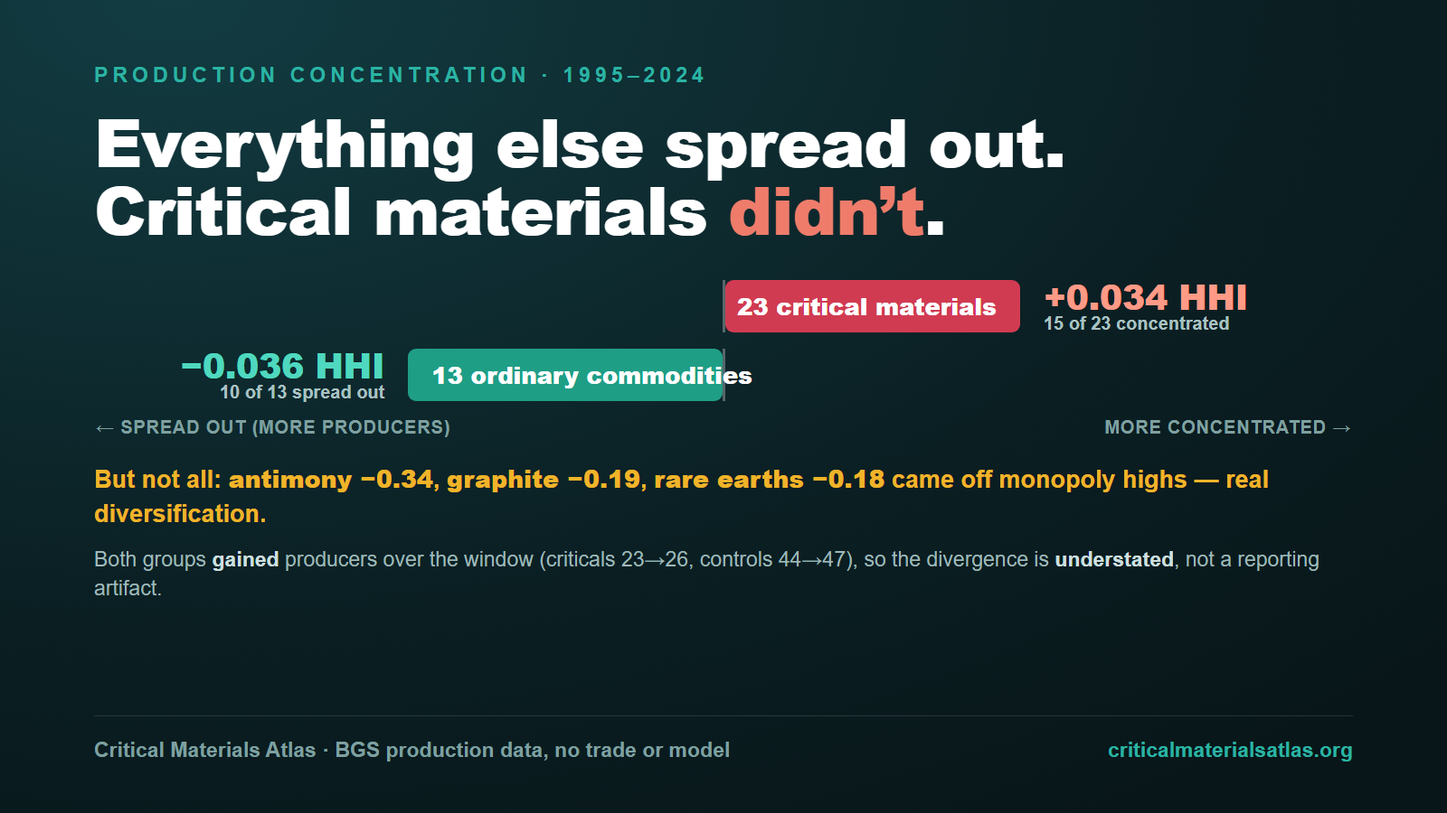
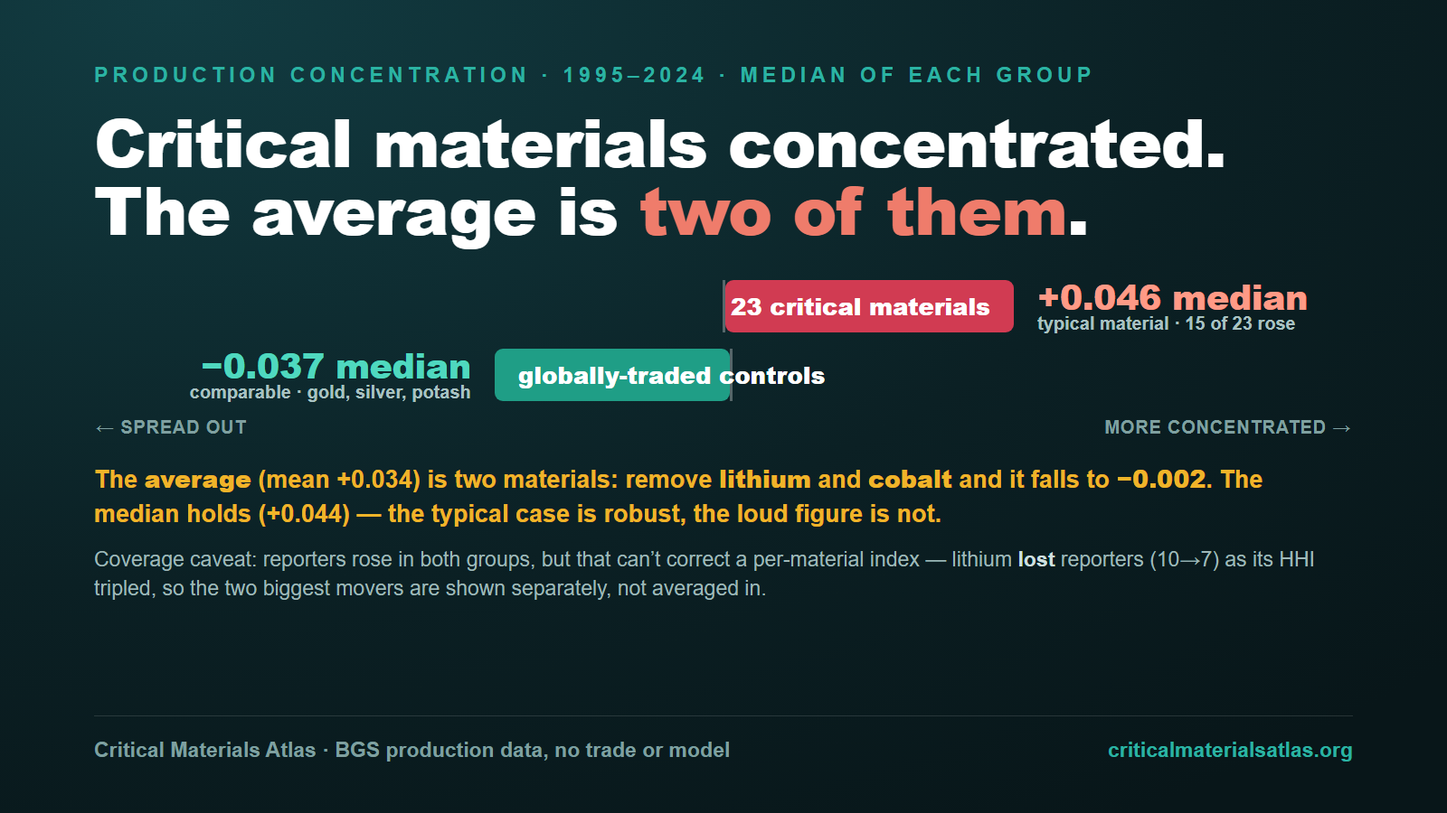
Concentration: reframe median-first, the average is two materials
Second X-manager review caught that the earlier framing made a class claim
the class does not support: drop lithium+cobalt and the critical MEAN goes
negative (-0.002). Rebuild on the honest, better finding.

- MEDIAN is the headline statistic: typical critical material +0.046,
  robust to leave-one-out (+0.044 without Li+Co, 13/21 still rose). The
  MEAN (+0.034) is carried entirely by two materials.
- Add the dot-strip plot (both reviewers asked): every material as one dot
  on the change axis, Li+Co visible as the outliers doing the work.
- Add leave-one-out table (mean collapses, median holds).
- Control comparability: most "ordinary minerals" are transport-sited and
  deconcentrate for logistics, not a counterfactual; the genuinely
  comparable, globally-traded controls are gold/silver/potash (median
  -0.037). Drop the bad exclusion rule (cement/iron+steel on model-internal
  convenience) from the reasoning.
- Selection caveat through the change: lists rewritten 2011-2023 in-window,
  lithium listed partly because it concentrated; median leave-one-out is
  the partial defence, full ex-ante freeze is the outstanding check.
- Coverage line corrected: group-mean coverage rising does NOT clear a
  nonlinear per-row index; lithium LOST reporters (10->7); two biggest
  movers shown separately, not averaged.
- Card rebuilt on medians + the two-material collapse + corrected coverage.
  Headline "Critical materials concentrated. The average is two of them."

diff --git a/concentration.html b/concentration.html
@@ -2,10 +2,10 @@
 <html lang="en"><head><meta charset="utf-8"><link rel="icon" href="/favicon.svg" type="image/svg+xml"><link rel="icon" type="image/png" sizes="192x192" href="/favicon-192.png"><link rel="icon" type="image/png" sizes="96x96" href="/favicon-96.png"><link rel="icon" type="image/png" sizes="48x48" href="/favicon-48.png"><link rel="icon" href="/favicon.ico" sizes="any"><link rel="apple-touch-icon" href="/apple-touch-icon.png">
 <meta name="viewport" content="width=device-width, initial-scale=1">
 <link rel="canonical" href="https://criticalmaterialsatlas.org/concentration">
-<title>Concentration divergence, 1995–2024 — Critical Materials Atlas</title>
-<meta name="description" content="Ordinary commodities spread out over 30 years; critical materials don't. Against a control group of 18 non-critical minerals — the test almost nobody runs — production concentration rose for 15 of 23 critical materials while it fell for 10 of 13 controls. Built from BGS production data alone: no trade, no consumption model.">
-<meta property="og:title" content="Ordinary commodities spread out. Critical materials don't.">
-<meta property="og:description" content="Against a control group of 13 ordinary minerals, production concentration rose for critical materials and fell for controls, 1995–2024. Production data only — the change, not the level, is the finding.">
+<title>The concentration average is two materials — Critical Materials Atlas</title>
+<meta name="description" content="The typical critical material grew modestly more concentrated over 1995–2024 while comparable ordinary commodities did not. But the large average usually cited is almost entirely lithium and cobalt — remove those two and it falls to zero. Built from BGS production data alone: no trade, no consumption model.">
+<meta property="og:title" content="Two materials carry the critical-minerals concentration story">
+<meta property="og:description" content="Median critical-material concentration rose +0.046 (robust); the mean +0.034 collapses to −0.002 without lithium and cobalt. The alarming average is two materials. Production data only.">
 <meta property="og:url" content="https://criticalmaterialsatlas.org/concentration">
 <meta property="og:image" content="https://criticalmaterialsatlas.org/share/card-concentration.png">
 <link rel="preconnect" href="https://fonts.googleapis.com"><link rel="preconnect" href="https://fonts.gstatic.com" crossorigin>
@@ -15,34 +15,38 @@
  article{max-width:1000px}
  .lead{font-size:1.05rem;line-height:1.6;color:var(--ink-soft);max-width:78ch;margin:.2rem 0 1.2rem}
  .lead b{color:var(--navy)}
- .panel{margin:1.4rem 0}
- .panel h3{display:flex;align-items:baseline;gap:.7rem;font-size:1.02rem;margin:.2rem 0 .1rem}
+ /* leave-one-out box */
+ .loo{border:1px solid var(--line);border-radius:10px;overflow:hidden;margin:1.2rem 0}
+ .loo table{margin:0;font-size:.95rem}
+ .loo caption{padding:.7rem 1rem .1rem;font-weight:700;color:var(--navy);font-size:.95rem;caption-side:top;text-align:left}
+ .loo th,.loo td{padding:.6rem 1rem}
+ .loo td.n{font-variant-numeric:tabular-nums;font-weight:800;text-align:right}
+ .loo .hi{color:#b3123a}.loo .ok{color:#0e7c5a}
+ .loo .rk{font-size:.8rem;color:var(--mut);font-weight:500}
+ /* dot strip */
+ .strip{margin:1rem 0 .3rem;overflow-x:auto}
+ .strip svg{display:block;min-width:720px;width:100%;height:auto}
+ .striplab{font-size:.82rem;color:var(--mut);max-width:82ch;margin:.2rem 0 0}
+ .leg{display:flex;gap:1.3rem;flex-wrap:wrap;font-size:.8rem;color:var(--ink-soft);margin:.5rem 0 0}
+ .leg span{display:inline-flex;align-items:center;gap:.4rem}
+ .leg i{width:12px;height:12px;border-radius:50%;display:inline-block}
+ /* per-material bars */
+ .panel{margin:1.2rem 0}
+ .panel h3{display:flex;align-items:baseline;gap:.7rem;font-size:1rem;margin:.2rem 0 .1rem}
  .panel h3 .tag{font-size:.72rem;font-weight:700;letter-spacing:.03em;color:var(--mut);text-transform:none}
- .chart{margin:.5rem 0 .3rem}
- .row{display:grid;grid-template-columns:11rem 1fr 3.4rem;align-items:center;gap:.6rem;padding:.09rem 0;font-size:.85rem}
+ .row{display:grid;grid-template-columns:11rem 1fr 3.4rem;align-items:center;gap:.6rem;padding:.08rem 0;font-size:.84rem}
  .row .nm{white-space:nowrap;overflow:hidden;text-overflow:ellipsis;color:var(--ink-soft);text-align:right}
- .row .nm a{color:var(--ink-soft);text-decoration:none}
- .row .nm a:hover{color:var(--navy);text-decoration:underline}
+ .row .nm a{color:var(--ink-soft);text-decoration:none}.row .nm a:hover{color:var(--navy);text-decoration:underline}
  .row .nm .dg{color:var(--faint);font-weight:700}
- .track{position:relative;height:17px;background:var(--bg-soft);border-radius:4px}
+ .track{position:relative;height:16px;background:var(--bg-soft);border-radius:4px}
  .zero{position:absolute;top:-2px;bottom:-2px;left:50%;width:1px;background:var(--line-strong)}
- .bar{position:absolute;top:2px;height:13px;border-radius:3px}
+ .bar{position:absolute;top:2px;height:12px;border-radius:3px}
  .bar.up{background:#b3123a}.bar.dn{background:#0e7c5a}
- .row .vv{text-align:right;font-variant-numeric:tabular-nums;font-weight:700;font-size:.8rem}
+ .row .vv{text-align:right;font-variant-numeric:tabular-nums;font-weight:700;font-size:.79rem}
  .vv.up{color:#b3123a}.vv.dn{color:#0e7c5a}
  .axl{display:grid;grid-template-columns:11rem 1fr 3.4rem;gap:.6rem;font-size:.68rem;color:var(--mut);margin-top:.2rem}
  .axl .mid{display:flex;justify-content:space-between}
- .leg{display:flex;gap:1.3rem;flex-wrap:wrap;font-size:.8rem;color:var(--ink-soft);margin:.4rem 0 0}
- .leg span{display:inline-flex;align-items:center;gap:.4rem}
- .leg i{width:12px;height:12px;border-radius:3px;display:inline-block}
- .divbox{display:grid;grid-template-columns:1fr 1fr;gap:0;border:1px solid var(--line);border-radius:10px;overflow:hidden;margin:1.1rem 0}
- .divbox>div{padding:1.05rem 1.2rem}
- .divbox>div:first-child{border-right:1px solid var(--line)}
- .divbox .big{font-size:1.5rem;font-weight:800;letter-spacing:-.02em;line-height:1.05}
- .divbox .big.up{color:#b3123a}.divbox .big.dn{color:#0e7c5a}
- .divbox .cap{font-size:.82rem;color:var(--mut);margin-top:.35rem;line-height:1.4}
- .divbox .cap b{color:var(--ink)}
- @media(max-width:640px){.row,.axl{grid-template-columns:7.5rem 1fr 3rem}.divbox{grid-template-columns:1fr}.divbox>div:first-child{border-right:none;border-bottom:1px solid var(--line)}}
+ @media(max-width:640px){.row,.axl{grid-template-columns:7.5rem 1fr 3rem}}
 </style>
 </head><body>
 <a class="skip" href="#main">Skip to content</a>
@@ -54,65 +58,70 @@
 
 <section class="hero"><div class="wrap">
   <div class="eyebrow">Supply structure · concentration over time</div>
-  <h1>Ordinary commodities spread out. Critical materials don&rsquo;t.</h1>
-  <p class="deck">Over three decades, production of ordinary minerals became <i>less</i> concentrated as more countries dug in &mdash; the normal pattern. Critical materials broke it: most grew <i>more</i> concentrated. The test that makes this a finding rather than a slogan is the <b>control group</b> &mdash; 13 non-critical minerals, run the same way. Almost nobody publishing on critical minerals runs one. This is built from production data alone: no trade, no consumption model, no forecast.</p>
+  <h1>Two materials carry the critical-minerals concentration story</h1>
+  <p class="deck">Most critical materials did grow more concentrated between 1995&ndash;2004 and 2015&ndash;2024 &mdash; the <i>typical</i> one modestly, and by more than comparable ordinary commodities. But the large <b>average</b> that usually gets cited is almost entirely <b>lithium and cobalt</b>: drop those two and it falls from +0.034 to essentially zero. So the alarming version of the story, in production terms, is mostly a story about two materials. Built from production data alone &mdash; no trade, no consumption model.</p>
 </div></section>
 
 <section class="stats"><div class="wrap">
-  <div class="stat"><div class="n">15 / 23</div><div class="l">critical materials grew <b>more</b> concentrated, 1995&ndash;2004 &rarr; 2015&ndash;2024</div></div>
-  <div class="stat"><div class="n">10 / 13</div><div class="l">control (ordinary) minerals grew <b>less</b> concentrated over the same window</div></div>
-  <div class="stat"><div class="n">+0.034</div><div class="l">mean HHI change, criticals (rising) vs <b>&minus;0.036</b> for controls (falling)</div></div>
+  <div class="stat"><div class="n">+0.046</div><div class="l"><b>median</b> HHI change of a critical material &mdash; the <i>typical</i> case (robust: +0.044 without Li&nbsp;&amp;&nbsp;Co)</div></div>
+  <div class="stat"><div class="n">&minus;0.037</div><div class="l">median for the <b>comparable</b> controls (gold, silver, potash) &mdash; the typical ordinary commodity did not</div></div>
+  <div class="stat"><div class="n">&rarr; &minus;0.002</div><div class="l">the critical <b>mean</b> (+0.034) once lithium &amp; cobalt are removed &mdash; the average is two materials</div></div>
   <div class="stat"><div class="n">1995&ndash;2004</div><div class="l">baseline decade &mdash; predates the EU&rsquo;s first critical-raw-materials list (2011)</div></div>
 </div></section>
 
 <article>
-  <p class="lead">The eye-catching number is the <i>level</i>: critical materials are more concentrated than ordinary ones (mean HHI 0.29 vs 0.19). <b>Ignore it.</b> That gap is partly circular &mdash; supply concentration is an explicit criterion for <i>calling</i> a material critical, so &ldquo;criticals are concentrated&rdquo; is close to definitional. The finding is the <b>change</b>. Nothing in any criticality definition says a material must become <i>more</i> concentrated over time. If criticality just meant &ldquo;naturally rare and concentrated,&rdquo; these materials would be flat and high &mdash; not rising. They rose while ordinary commodities fell, and the baseline decade (1995&ndash;2004) predates the EU critical-raw-materials list (2011) and most national lists entirely.</p>
+  <p class="lead">The number to quote is the <b>median</b>, not the mean. The typical critical material became modestly more concentrated (median <b>+0.046</b>), and it did so while the typical <i>comparable</i> ordinary commodity did not. That result is robust: strip out the two biggest movers and the median barely moves. The <i>mean</i> tells a louder story &mdash; but a false one. It is +0.034 only because two materials sit at the far edge of the distribution; remove them and it collapses. Anyone citing &ldquo;critical minerals are concentrating&rdquo; from an average is, on these numbers, mostly citing lithium and cobalt.</p>
 
-  <div class="divbox">
-    <div><div class="big up">+0.034 &nbsp;<span style="font-size:.9rem;font-weight:700">(&plus;12%)</span></div>
-      <div class="cap"><b>23 critical materials.</b> Mean production HHI rose from 0.29 to 0.32. <b>15 concentrated, 7 spread out, 1 flat.</b> Concentration is broad &mdash; not one or two headline metals.</div></div>
-    <div><div class="big dn">&minus;0.036 &nbsp;<span style="font-size:.9rem;font-weight:700">(&minus;19%)</span></div>
-      <div class="cap"><b>13 ordinary minerals.</b> Mean HHI fell from 0.19 to 0.15. <b>10 spread out, 3 concentrated.</b> The normal pattern: as demand grows, more countries produce.</div></div>
-  </div>
+  <div class="loo"><table><caption>Remove the two biggest movers &mdash; lithium (+0.50) and cobalt (+0.31):</caption>
+    <thead><tr><th>Critical materials</th><th class="n">Mean change</th><th class="n">Median change</th><th class="n">Share that rose</th></tr></thead>
+    <tbody>
+      <tr><td>All 23</td><td class="n">+0.034</td><td class="n">+0.046</td><td class="n">15 / 23</td></tr>
+      <tr><td>The other 21 <span class="rk">(without Li&nbsp;&amp;&nbsp;Co)</span></td><td class="n hi">&minus;0.002</td><td class="n ok">+0.044</td><td class="n">13 / 21</td></tr>
+    </tbody></table></div>
+  <p class="note" style="margin:-.4rem 0 0;max-width:82ch">The <b class="loo" style="color:#b3123a">mean</b> is entirely those two materials. The <b class="loo" style="color:#0e7c5a">median</b> &mdash; the typical material &mdash; is not: it holds, and 13 of the remaining 21 still rose. Both facts are the finding.</p>
 
-  <h2>The change in each material, 1995&ndash;2004 &rarr; 2015&ndash;2024</h2>
-  <p class="note" style="margin:.2rem 0 .6rem;max-width:80ch">Change in the Herfindahl&ndash;Hirschman index of production shares (0 = many equal producers, 1 = a single monopoly). Bars right &amp; red = <b>concentrated</b>; left &amp; green = <b>spread out</b>. In each panel the <i>minority</i> colour is the exception &mdash; a critical that diversified, or an ordinary mineral that concentrated &mdash; shown, not hidden. <span class="dg" style="color:var(--faint);font-weight:700">&dagger;</span> marks thin coverage (fewer than 8 reporting producers), where the index is fragile.</p>
+  <h2>The whole distribution, one dot per material</h2>
+  <p class="striplab">Every material&rsquo;s change in production HHI, 1995&ndash;2004 &rarr; 2015&ndash;2024, plotted on one axis. This is the most honest object on the page: it shows the two outliers doing the work rather than hiding them in an average. The vertical tick is each group&rsquo;s <b>median</b>.</p>
+  <div class="strip"><svg id="strip" viewBox="0 0 920 240" role="img" aria-label="Dot strip of HHI change by material"></svg></div>
+  <div class="leg"><span><i style="background:#b3123a"></i> critical material</span><span><i style="background:#0e7c5a"></i> comparable control (Au/Ag/potash)</span><span><i style="background:#9aa6ad"></i> other ordinary mineral (transport-sited)</span><span style="color:var(--mut)">▏ = group median</span></div>
+
+  <h2>Is it a class, or is it two materials?</h2>
+  <p style="max-width:80ch">The honest answer is <b>both, at different volumes</b>. As a <i>class</i>, critical materials lean toward concentration: 15 of 23 rose, and the typical one by a modest +0.046. But the dramatic, headline-grade concentration is two materials &mdash; the battery-cathode pair. Lithium&rsquo;s HHI more than tripled (0.21&nbsp;&rarr;&nbsp;0.71) and cobalt&rsquo;s tripled too (0.14&nbsp;&rarr;&nbsp;0.45). And it is <b>not</b> a clean &ldquo;energy transition&rdquo; story: two of the most-discussed transition metals moved the other way &mdash; graphite (&minus;0.19) and rare earths (&minus;0.18) came off near-monopoly highs as new suppliers entered. So &ldquo;critical minerals are concentrating&rdquo; is true of the typical material only mildly, and true dramatically of two.</p>
 
   <div class="panel">
-    <h3>Critical materials <span class="tag">production HHI change &mdash; sorted</span></h3>
+    <h3>Every critical material, ranked <span class="tag">production HHI change</span></h3>
     <div class="chart" id="chart-crit"></div>
   </div>
-
   <div class="panel">
-    <h3>Control group &mdash; ordinary minerals <span class="tag">same method, same window</span></h3>
+    <h3>Ordinary minerals, same method <span class="tag">comparable controls in green; transport-sited in grey</span></h3>
     <div class="chart" id="chart-ctrl"></div>
     <div class="axl"><span></span><span class="mid"><span>&larr; spread out</span><span>0</span><span>concentrated &rarr;</span></span><span></span></div>
   </div>
+  <div class="leg"><span><i style="background:#b3123a;border-radius:3px"></i> grew more concentrated</span><span><i style="background:#0e7c5a;border-radius:3px"></i> spread out</span><span style="color:var(--mut)"><span class="dg" style="color:var(--faint)">&dagger;</span> thin coverage (&lt;8 producers)</span></div>
 
-  <div class="leg"><span><i style="background:#b3123a"></i> grew more concentrated</span><span><i style="background:#0e7c5a"></i> spread out (more producers)</span><span style="color:var(--mut)"><span class="dg" style="color:var(--faint)">&dagger;</span> thin coverage (&lt;8 producers)</span></div>
+  <h2>What counts as a control &mdash; and why most don&rsquo;t</h2>
+  <p style="max-width:80ch">A control only works if it is <i>comparable</i>. Many ordinary minerals &mdash; gypsum, salt, aggregates, talc, perlite &mdash; deconcentrate for a reason that has nothing to do with supply risk: they are bulky and low-value, so they are produced next to where they are used. That is transport economics, not a counterfactual, and it would flatter the result. The genuinely comparable controls are the ones that share critical materials&rsquo; production logic &mdash; globally traded, mined where the geology is: <b>gold, silver and potash</b>. Their typical change was &minus;0.037: no concentration. It is a small basket (three), and that smallness is itself telling &mdash; there are few important, globally-traded, non-critical commodities, because being scarce and concentrated is much of what gets a material <i>called</i> critical in the first place.</p>
 
-  <div class="callout" style="margin-top:1.3rem"><b>The confound an analyst checks first &mdash; and it runs the wrong way for us.</b> HHI rises automatically when fewer countries report. But over this window <i>both</i> groups <i>gained</i> reporters &mdash; the critical group 23 &rarr; 26 producing countries per year on average, the control group 44 &rarr; 47. More countries were producing in each, yet criticals concentrated while controls spread out. So the criticals&rsquo; rise is <b>despite</b> more producers, not a reporting artifact. That is the single strongest line here, so it sits in the open, not a footnote.</div>
+  <h2>Two honesties this rests on</h2>
+  <p style="max-width:80ch"><b>The level is partly circular; the change is the finding.</b> Critical materials are more concentrated than ordinary ones in level (mean HHI 0.29 vs 0.19), but supply concentration is an explicit criterion for <i>calling</i> a material critical, so that gap is close to definitional. Nothing in any definition says a material must become <i>more</i> concentrated over time &mdash; that is what the change measures, and the baseline decade (1995&ndash;2004) predates the EU critical-raw-materials list (2011).</p>
+  <p style="max-width:80ch"><b>Selection bites through the change too, and lithium is the case.</b> The critical lists were rewritten repeatedly between 2011 and 2023 &mdash; inside the window &mdash; and lithium was added partly <i>because</i> it concentrated. A full defence would freeze the classification to before the baseline; that is the outstanding robustness check. The partial defence is already visible above: the median survives removing lithium and cobalt, so the typical-material result does not depend on the recently-salient cases.</p>
 
-  <h2>Is it the energy transition? No &mdash; and that&rsquo;s the interesting part</h2>
-  <p style="max-width:80ch">The obvious story would be that the materials the energy transition needs concentrated while the rest spread out. It doesn&rsquo;t hold &mdash; and the test saying no is the test working. The transition group has the bigger <i>average</i> move but only <b>5 of 9 rose</b>, a coin flip carried by two extremes; the old-industrial criticals are the consistent ones (<b>10 of 14</b>). Two of the most-talked-about transition metals went the <i>other</i> way entirely: graphite (&minus;0.19) and rare earths (&minus;0.18) came off near-monopoly highs as new suppliers entered. The cleanest single concentrator is <b>cobalt</b> &mdash; its HHI tripled (0.14 &rarr; 0.45) while its reporting producers <i>rose</i> from 14 to 20. <b>Lithium</b> moved further still (0.21 &rarr; 0.71) but its reporter count <i>fell</i> (10 &rarr; 7), so part of that is thinner reporting rather than deeper concentration &mdash; the one row where the coverage caveat cuts the other way. So this isn&rsquo;t a batteries-and-magnets story; it&rsquo;s broad across critical materials, with a couple of battery metals as the extreme edge, not the cause.</p>
+  <div class="callout"><b>The coverage question, stated correctly.</b> Concentration indices can rise simply because fewer countries report. Reporter counts actually <i>rose</i> in both groups on average &mdash; but that average does not clear a nonlinear, per-material index, and the single biggest mover cuts the other way: <b>lithium&rsquo;s reporting producers fell from 10 to 7</b> as its HHI tripled, so part of that one rise is thinner reporting, not deeper concentration. That is exactly why lithium and cobalt are shown as individual dots, not folded into a group average. Cobalt is the clean case &mdash; its producer count <i>rose</i> (14&nbsp;&rarr;&nbsp;20) while its HHI tripled.</div>
 
-  <h2>The exceptions, named</h2>
-  <p style="max-width:80ch">A finding you can only believe if the counter-cases are on the table. Seven criticals <i>diversified</i>: <b>antimony</b> (&minus;0.34), <b>graphite</b> (&minus;0.19), <b>rare earths</b> (&minus;0.18), <b>platinum-group metals</b> (&minus;0.10), barytes, tin and copper. The three biggest were all near-monopolies in the 1990s that have genuinely broadened since &mdash; real, and real evidence that concentration is not destiny. On the other side, only three ordinary minerals <i>concentrated</i>, and all barely &mdash; perlite (&plus;0.04), silver (&plus;0.02) and salt (&plus;0.02), none on a shrinking producer set. Two commodities that <i>would</i> have concentrated were deliberately left out of the control group, not to flatter the result: diamond (a cartel-shaped market that behaves like a critical) and asbestos (whose producers vanished for regulatory reasons, a policy shock rather than market structure). Neither exclusion is needed for the divergence &mdash; 15 vs 10 pointing opposite ways &mdash; but naming them is.</p>
-
-  <div class="callout"><b>What this rests on, and what it doesn&rsquo;t.</b> Concentration is measured on <b>mine/primary production tonnages</b> from the <a href="https://www2.bgs.ac.uk/mineralsuk/statistics/wms.cfc?method=searchWMS">BGS World Mineral Statistics</a> panel &mdash; a single, consistent source across all 36 materials and 30 years. HHI is the sum of squared national production shares, computed only for years with at least five reporting producers. This uses <b>no trade data, no apparent-consumption estimate, and no model</b> &mdash; which is why it is independent of everything still open in the atlas&rsquo;s consumption layer. It measures where material is <i>produced</i>, not where it is refined or consumed; a material can have diversified mines and still a concentrated midstream (that is the <a href="chokepoint-map">chokepoint</a> question, and a different measurement).</p>
-  </div>
+  <div class="callout"><b>What this rests on, and what it doesn&rsquo;t.</b> Concentration is measured on <b>mine/primary production tonnages</b> from the <a href="https://www2.bgs.ac.uk/mineralsuk/statistics/wms.cfc?method=searchWMS">BGS World Mineral Statistics</a> panel &mdash; one consistent source across every material, computed only for years with at least five reporting producers. It uses <b>no trade data, no apparent-consumption estimate, and no model</b>, so it is independent of everything still open in the atlas&rsquo;s consumption layer. It measures where material is <i>produced</i>, not refined or consumed &mdash; a material can have diversified mines and a concentrated midstream (that is the <a href="chokepoint-map">chokepoint</a> question, and a different measurement).</div>
 
   <div class="ftr"><a href="chokepoint-map">Where the real chokepoints sit</a> · <a href="n1">Can the rest cope without the leader?</a> · <a href="analysis">All analysis</a></div>
 </article>
 
 </main>
-<footer class="siteftr"><div class="wrap"><div><h4>Critical Materials Atlas</h4>Public-data value-chain research.</div><div><h4>Related</h4><a href="chokepoint-map">Chokepoint map</a><br><a href="analysis">Analysis</a></div><div class="fineprint">Concentration from BGS World Mineral Statistics production tonnages; HHI of national production shares, years with &ge;5 reporters. Production only.</div></div></footer>
+<footer class="siteftr"><div class="wrap"><div><h4>Critical Materials Atlas</h4>Public-data value-chain research.</div><div><h4>Related</h4><a href="chokepoint-map">Chokepoint map</a><br><a href="analysis">Analysis</a></div><div class="fineprint">Concentration from BGS World Mineral Statistics production tonnages; HHI of national production shares, years with &ge;5 reporters. Production only. Median is the headline statistic.</div></div></footer>
 
 <script>
-// BGS World Mineral Statistics — production HHI, mean of 1995-2004 vs mean of 2015-2024.
-// change = late - early. thin = min reporters/yr < 8. Built by build_bgs_concentration.py.
+// BGS World Mineral Statistics — production HHI, mean of 1995-2004 vs 2015-2024. change = late - early.
+// thin = min reporters/yr < 8. cmp = comparable control (globally-traded, geology-sited). Built by
+// build_bgs_concentration.py. Medians: critical +0.046, comparable control -0.037, all controls -0.026.
 var CRIT=[
- {n:"Lithium",c:.504,thin:1,h:"lithium-chain/lithium-chain.html"},{n:"Cobalt",c:.310,h:"cobalt-chain/cobalt-chain.html"},
+ {n:"Lithium",c:.504,thin:1,big:1,h:"lithium-chain/lithium-chain.html"},{n:"Cobalt",c:.310,big:1,h:"cobalt-chain/cobalt-chain.html"},
  {n:"Fluorspar",c:.158},{n:"Lead",c:.130},{n:"Vanadium",c:.100,thin:1},{n:"Phosphate rock",c:.089},
  {n:"Nickel",c:.076,h:"nickel-chain/nickel-chain.html"},{n:"Magnesite",c:.076},{n:"Bismuth",c:.074},{n:"Feldspar",c:.060},
  {n:"Tungsten",c:.046},{n:"Chromium",c:.046},{n:"Zinc",c:.044},{n:"Manganese",c:.024},{n:"Molybdenum",c:.010},
@@ -120,21 +129,58 @@ var CRIT=[
  {n:"Platinum-group metals",c:-.095,thin:1},{n:"Rare earths",c:-.182,thin:1,h:"rare-earths-chain/rare-earths-chain.html"},
  {n:"Graphite",c:-.190,h:"graphite-chain/graphite-chain.html"},{n:"Antimony",c:-.344}];
 var CTRL=[
- {n:"Perlite",c:.040},{n:"Silver",c:.024},{n:"Salt",c:.015},{n:"Mica",c:-.017},{n:"Bentonite",c:-.018},
- {n:"Aggregates",c:-.022},{n:"Gypsum",c:-.026},{n:"Diatomite",c:-.026},{n:"Gold",c:-.037},{n:"Talc",c:-.043},
- {n:"Vermiculite",c:-.104},{n:"Kaolin",c:-.109},{n:"Potash",c:-.151,thin:1}];
-var MAX=0.52; // symmetric scale, half-width each side
-function render(id,rows){
- var html=rows.map(function(r){
+ {n:"Perlite",c:.040},{n:"Silver",c:.024,cmp:1},{n:"Salt",c:.015},{n:"Mica",c:-.017},{n:"Bentonite",c:-.018},
+ {n:"Aggregates",c:-.022},{n:"Gypsum",c:-.026},{n:"Diatomite",c:-.026},{n:"Gold",c:-.037,cmp:1},{n:"Talc",c:-.043},
+ {n:"Vermiculite",c:-.104},{n:"Kaolin",c:-.109},{n:"Potash",c:-.151,cmp:1,thin:1}];
+var MED={crit:.046,ctrlAll:-.026,ctrlCmp:-.037};
+
+/* ---- dot strip ---- */
+(function(){
+ var W=920,H=240,L=40,R=30,x0=-.36,x1=.54;
+ function X(c){return L+(c-x0)/(x1-x0)*(W-L-R);}
+ var laneC=78,laneT=170,jit=[0,-16,16,-30,30,-44,44]; // vertical jitter to declutter
+ var s='';
+ // axis
+ s+='<line x1="'+L+'" y1="205" x2="'+(W-R)+'" y2="205" stroke="#ccd5d3" stroke-width="1"/>';
+ for(var t=-.3;t<=.5001;t+=.1){var xt=X(t);var lab=(t>0?'+':'')+t.toFixed(1);
+  s+='<line x1="'+xt+'" y1="205" x2="'+xt+'" y2="210" stroke="#ccd5d3"/>';
+  s+='<text x="'+xt+'" y="224" font-size="12" fill="#667179" text-anchor="middle" font-family="Inter,sans-serif">'+lab+'</text>';}
+ // zero line
+ s+='<line x1="'+X(0)+'" y1="30" x2="'+X(0)+'" y2="205" stroke="#9aa6ad" stroke-width="1" stroke-dasharray="3 3"/>';
+ s+='<text x="'+X(0)+'" y="24" font-size="11" fill="#667179" text-anchor="middle" font-family="Inter,sans-serif">no change</text>';
+ // lane labels
+ s+='<text x="'+L+'" y="52" font-size="12.5" font-weight="700" fill="#15323a" font-family="Inter,sans-serif">Critical materials (23)</text>';
+ s+='<text x="'+L+'" y="144" font-size="12.5" font-weight="700" fill="#15323a" font-family="Inter,sans-serif">Ordinary minerals (13)</text>';
+ function dots(rows,lane,fill,fillCmp){
+   rows.forEach(function(r,i){var cx=X(r.c),cy=lane+jit[i%jit.length];
+     var col=r.cmp?fillCmp:(fill==='ctrl'?'#9aa6ad':'#b3123a');
+     s+='<circle cx="'+cx+'" cy="'+cy+'" r="'+(r.big?8:6)+'" fill="'+col+'" fill-opacity="'+(r.cmp||fill!=='ctrl'?0.9:0.55)+'" stroke="#fff" stroke-width="1.5"/>';
+     if(r.big){s+='<text x="'+cx+'" y="'+(cy-12)+'" font-size="12" font-weight="700" fill="#b3123a" text-anchor="middle" font-family="Inter,sans-serif">'+r.n+'</text>';}
+     if(r.cmp){s+='<text x="'+cx+'" y="'+(cy+20)+'" font-size="10.5" fill="#0e7c5a" text-anchor="middle" font-family="Inter,sans-serif">'+r.n+'</text>';}
+   });
+ }
+ dots(CRIT,laneC,'crit','#b3123a');
+ dots(CTRL,laneT,'ctrl','#0e7c5a');
+ // median ticks
+ function med(v,lane,col){s+='<line x1="'+X(v)+'" y1="'+(lane-40)+'" x2="'+X(v)+'" y2="'+(lane+40)+'" stroke="'+col+'" stroke-width="2.5"/>'+
+   '<text x="'+X(v)+'" y="'+(lane-46)+'" font-size="11" font-weight="700" fill="'+col+'" text-anchor="middle" font-family="Inter,sans-serif">median '+(v>0?'+':'')+v.toFixed(3)+'</text>';}
+ med(MED.crit,laneC,'#15323a');
+ med(MED.ctrlCmp,laneT,'#0e7c5a');
+ document.getElementById('strip').innerHTML=s;
+})();
+
+/* ---- per-material bars ---- */
+var MAX=0.52;
+function renderBars(id,rows,ctrlMode){
+ document.getElementById(id).innerHTML=rows.map(function(r){
   var up=r.c>=0, w=Math.min(Math.abs(r.c)/MAX*50,50);
-  var name=(r.h?'<a href="'+r.h+'">'+r.n+'</a>':r.n)+(r.thin?' <span class="dg">&dagger;</span>':'');
+  var name=(r.h?'<a href="'+r.h+'">'+r.n+'</a>':r.n)+(r.thin?' <span class="dg">&dagger;</span>':'')+(r.cmp?' <span style="color:#0e7c5a;font-weight:700">•</span>':'');
   var bar='<div class="track"><span class="zero"></span><span class="bar '+(up?'up':'dn')+'" style="'+
     (up?'left:50%;width:'+w+'%':'right:50%;width:'+w+'%')+'"></span></div>';
   var val='<span class="vv '+(up?'up':'dn')+'">'+(up?'+':'&minus;')+Math.abs(r.c).toFixed(2)+'</span>';
   return '<div class="row"><span class="nm">'+name+'</span>'+bar+val+'</div>';
  }).join('');
- document.getElementById(id).innerHTML=html;
 }
-render('chart-crit',CRIT); render('chart-ctrl',CTRL);
+renderBars('chart-crit',CRIT); renderBars('chart-ctrl',CTRL,true);
 </script>
 </body></html>

diff --git a/share/card-concentration.html b/share/card-concentration.html
@@ -28,23 +28,23 @@
  .spacer{flex:1}
  .foot{display:flex;justify-content:space-between;align-items:center;font-size:23px;color:#7fa0a0;font-weight:600;border-top:1px solid rgba(255,255,255,.13);padding-top:24px}
  .foot .u{color:#2bb3a3}</style></head><body><div class="card">
- <div class="eyebrow">Production concentration · 1995&ndash;2024</div>
- <div class="h">Everything else spread out.<br>Critical materials <span class="red">didn&rsquo;t</span>.</div>
+ <div class="eyebrow">Production concentration · 1995&ndash;2024 · median of each group</div>
+ <div class="h">Critical materials concentrated.<br>The average is <span class="red">two of them</span>.</div>
  <div class="viz">
   <div class="drow">
    <div class="half left"></div>
    <div class="axis"></div>
-   <div class="half right"><div class="bar r" style="width:47%"><span class="lab">23 critical materials</span></div><div class="valblk r"><span class="v">+0.034 HHI</span><br><span class="cnt">15 of 23 concentrated</span></div></div>
+   <div class="half right"><div class="bar r" style="width:46%"><span class="lab">23 critical materials</span></div><div class="valblk r"><span class="v">+0.046 median</span><br><span class="cnt">typical material · 15 of 23 rose</span></div></div>
   </div>
   <div class="drow">
-   <div class="half left"><div class="valblk g"><span class="v">&minus;0.036 HHI</span><br><span class="cnt">10 of 13 spread out</span></div><div class="bar g" style="width:50%"><span class="lab">13 ordinary commodities</span></div></div>
+   <div class="half left"><div class="valblk g"><span class="v">&minus;0.037 median</span><br><span class="cnt">comparable · gold, silver, potash</span></div><div class="bar g" style="width:37%"><span class="lab">globally-traded controls</span></div></div>
    <div class="axis"></div>
    <div class="half right"></div>
   </div>
-  <div class="dirlbl"><span>&larr; spread out (more producers)</span><span>more concentrated &rarr;</span></div>
+  <div class="dirlbl"><span>&larr; spread out</span><span>more concentrated &rarr;</span></div>
  </div>
- <div class="exc">But not all: <b>antimony &minus;0.34</b>, <b>graphite &minus;0.19</b>, <b>rare earths &minus;0.18</b> came off monopoly highs &mdash; real diversification.</div>
- <div class="cov">Both groups <b>gained</b> producers over the window (criticals 23&rarr;26, controls 44&rarr;47), so the divergence is <b>understated</b>, not a reporting artifact.</div>
+ <div class="exc">The <b>average</b> (mean +0.034) is two materials: remove <b>lithium</b> and <b>cobalt</b> and it falls to <b>&minus;0.002</b>. The median holds (+0.044) &mdash; the typical case is robust, the loud figure is not.</div>
+ <div class="cov">Coverage caveat: reporters rose in both groups, but that can&rsquo;t correct a per-material index &mdash; lithium <b>lost</b> reporters (10&rarr;7) as its HHI tripled, so the two biggest movers are shown separately, not averaged in.</div>
  <div class="spacer"></div>
  <div class="foot"><span>Critical Materials Atlas · BGS production data, no trade or model</span><span class="u">criticalmaterialsatlas.org</span></div>
 </div></body></html>

diff --git a/build_bgs_concentration.py b/build_bgs_concentration.py
@@ -5,7 +5,7 @@ critical materials, as a class, do not. Control group is what makes it a finding
 (the change), not the LEVEL (partly definitional — criticality lists select on concentration; and the
 1995-2004 baseline predates the EU CRM 2011 list). Run: python build_bgs_concentration.py -> out/concentration.json
 """
-import json, os
+import json, os, statistics as st
 from collections import Counter, defaultdict
 P='raw/bgs/panel'
 CRITICAL=['copper','lead','zinc','tin','cobalt','nickel','manganese','tungsten','molybdenum','vanadium',
@@ -44,27 +44,48 @@ def analyze(names):
         rows.append({'material':m,'hhi_9504':round(e,3),'hhi_1524':round(l,3),'change':round(l-e,3),
                      'cov_9504':round(ec),'cov_1524':round(lc),'transition':m in TRANSITION})
     return rows
-crit=analyze(CRITICAL); ctrl=analyze(CONTROL)
+# Genuinely comparable controls: globally-traded, geology-sited non-critical commodities (mined where the
+# resource is, not next to the point of use). The rest of CONTROL are transport-limited industrial minerals
+# (gypsum/salt/aggregates/talc/perlite/kaolin/bentonite...) that deconcentrate for logistics reasons, not as
+# a clean counterfactual. So the comparable subset is the real control; the wider set is context.
+COMPARABLE={'gold','silver','potash'}
+EXTREMES={'lithium','cobalt'}  # the two materials that carry the critical MEAN (leave-one-out test)
+crit=analyze(CRITICAL)
+ctrl=analyze(CONTROL)
+for r in ctrl: r['comparable']=r['material'] in COMPARABLE
 def summ(rows):
     if not rows: return {}
     ch=[r['change'] for r in rows]
-    return {'n':len(rows),'mean_hhi_9504':round(sum(r['hhi_9504'] for r in rows)/len(rows),3),
-            'mean_hhi_1524':round(sum(r['hhi_1524'] for r in rows)/len(rows),3),
-            'mean_change':round(sum(ch)/len(ch),3),'n_concentrated':sum(1 for c in ch if c>0.005),
-            'n_deconcentrated':sum(1 for c in ch if c<-0.005),
-            'mean_cov_9504':round(sum(r['cov_9504'] for r in rows)/len(rows)),
-            'mean_cov_1524':round(sum(r['cov_1524'] for r in rows)/len(rows))}
+    return {'n':len(rows),
+            'mean_change':round(st.mean(ch),3),'median_change':round(st.median(ch),3),
+            'mean_hhi_9504':round(st.mean(r['hhi_9504'] for r in rows),3),
+            'mean_hhi_1524':round(st.mean(r['hhi_1524'] for r in rows),3),
+            'n_concentrated':sum(1 for c in ch if c>0.005),'n_deconcentrated':sum(1 for c in ch if c<-0.005),
+            'mean_cov_9504':round(st.mean(r['cov_9504'] for r in rows)),
+            'mean_cov_1524':round(st.mean(r['cov_1524'] for r in rows))}
 tr=[r for r in crit if r['transition']]; ntr=[r for r in crit if not r['transition']]
-out={'note':'BGS production-concentration (HHI), 1995-2004 vs 2015-2024. Production only — no trade/AC/model. '
-     'Lead with the CHANGE (divergence), not the LEVEL: the level gap is partly definitional (criticality lists '
-     'select on concentration) and the baseline predates the EU CRM 2011 list; the change is not definitional. '
-     'Coverage confound ruled out IN THE RIGHT DIRECTION: both groups gained reporters, so the criticals\' rise '
-     'is understated. HHI = sum of squared production shares; years with >=5 reporters only.',
-     'critical':summ(crit),'transition':summ(tr),'non_transition':summ(ntr),'control':summ(ctrl),
+crit_ex=[r for r in crit if r['material'] not in EXTREMES]      # leave-one-out: drop the two extremes
+comp=[r for r in ctrl if r['comparable']]                        # gold/silver/potash
+out={'note':'BGS production-concentration (HHI of national production shares), 1995-2004 vs 2015-2024. '
+     'Production only - no trade, no apparent consumption, no model. THE FINDING IS THE MEDIAN, NOT THE MEAN: '
+     'the critical MEAN (+0.034) is carried almost entirely by lithium (+0.504) and cobalt (+0.310) - remove '
+     'them and it goes to -0.002. The MEDIAN (+0.046) is robust to that (+0.044 without the two), so the '
+     'TYPICAL critical material did concentrate modestly, while the often-cited average is really two materials. '
+     'The LEVEL gap is partly definitional (criticality lists select on concentration) and the baseline predates '
+     'the EU CRM 2011 list. CONTROL CAVEAT: most "ordinary minerals" are transport-sited (deconcentrate for '
+     'logistics, not a counterfactual); the genuinely comparable, globally-traded controls are gold/silver/potash. '
+     'SELECTION CAVEAT: critical lists were rewritten 2011-2023, inside the window, and lithium was listed partly '
+     'because it concentrated - a full ex-ante freeze is the outstanding robustness check; the median\'s '
+     'leave-one-out robustness is a partial defence. COVERAGE: reporter counts rose in both groups on average, '
+     'but that does NOT correct a nonlinear per-row measure and the single biggest mover (lithium) LOST reporters '
+     '(10->7); so the two largest movers are shown separately, not folded into an averaged coverage claim.',
+     'critical':summ(crit),'critical_ex_extremes':summ(crit_ex),
+     'transition':summ(tr),'non_transition':summ(ntr),
+     'control_all':summ(ctrl),'control_comparable':summ(comp),
      'materials':{'critical':sorted(crit,key=lambda r:-r['change']),'control':sorted(ctrl,key=lambda r:-r['change'])}}
 os.makedirs('out',exist_ok=True); json.dump(out,open('out/concentration.json','w'),indent=1)
-print("CRITICAL   ",summ(crit))
-print("  TRANSITION",summ(tr))
-print("  NON-TRANS ",summ(ntr))
-print("CONTROL    ",summ(ctrl))
+print("CRITICAL         ",summ(crit))
+print("  minus Li+Co    ",summ(crit_ex))
+print("CONTROL all (13) ",summ(ctrl))
+print("CONTROL comp (3) ",summ(comp))
 print("wrote out/concentration.json")
